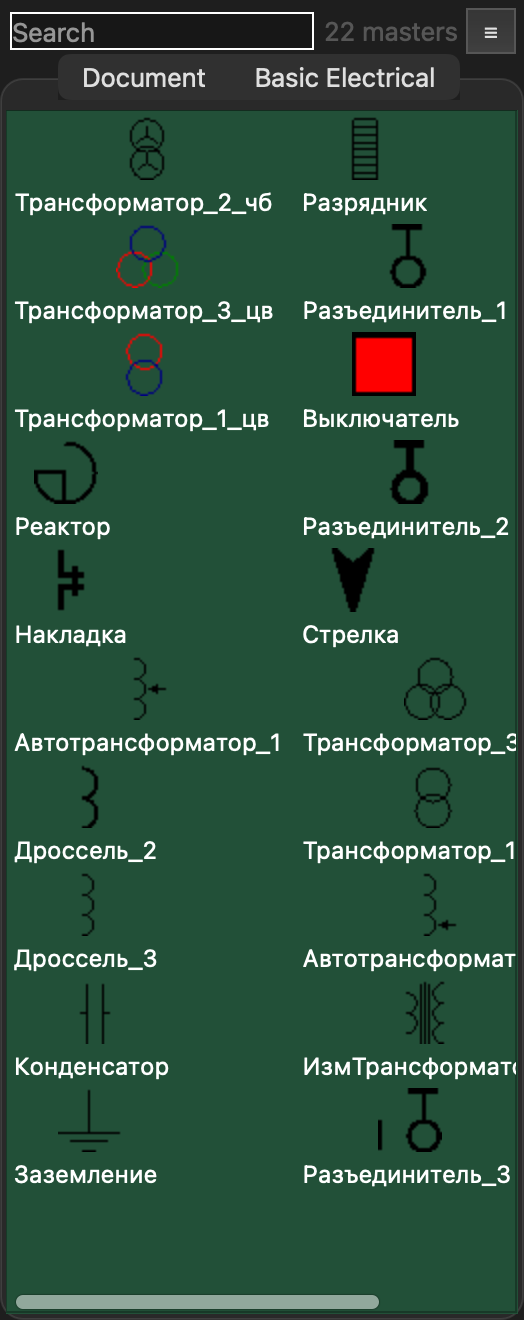
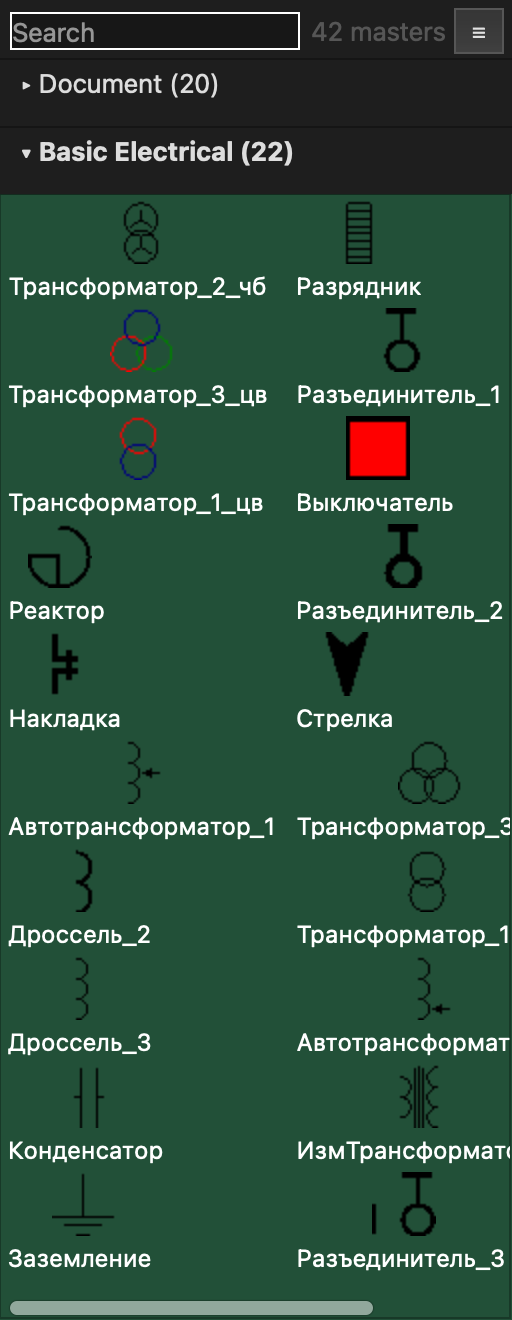
designer: stencil libraries as an accordion, not a second row of tabs
The Stencils panel put its libraries (Document, then every open .vdc) in
a tab widget inside the tabbed Stencils | Navigator dock: two rows of
tabs stacked, the inner one out of room after a few libraries, and the
search limited to the open tab.

The libraries are now a QToolBox: flat header rows, "▸ Document (20)",
"▾ Basic Electrical (22)", one open at a time, styled from the palette
so both themes follow. The search covers every library: headers show
their matches, the first library with a match opens if the open one has
none, and the counter beside the field counts all libraries. Drag and
drop, context menus, Ctrl-drop onto Document and list mode are as
before.

Tests: four new StencilPanel cases (accordion, header counts, search
opening the matching library, search keeping an open library that
matches); the existing ones moved from QTabWidget to QToolBox. One new
string, translated. The manual's Трафареты / Stencils pages, both
languages, the panel and window captures, the Designer gallery and the
editor-window reference sheet are updated; checked on the live app.

Changed region(s): [[0.0, 0.0, 1.0, 1.0], [0.0, 0.0, 0.0312, 0.0311]]

diff --git a/dev/designer/stencils.md b/dev/designer/stencils.md
@@ -21,20 +21,24 @@ permalink: /dev/designer/stencils/
 
 ![Панель «Трафареты»]({{ '/img/designer-stencils.png' | relative_url }}){: width="262"}
 
-Вкладка *Документ* показывает трафареты текущей схемы, остальные вкладки —
-открытые библиотеки. **Перетащите символ на схему**, чтобы поставить его.
+Библиотеки идут списком заголовков: сначала *Документ* — трафареты текущей
+схемы, — затем каждая открытая библиотека. В заголовке — число трафаретов;
+щелчок по заголовку раскрывает библиотеку (раскрыта всегда одна, она отмечена
+`▾`, свернутые — `▸`). **Перетащите символ на схему**, чтобы поставить его.
 
-- Поле *Поиск* оставляет символы, в имени которых есть набранный текст;
-  счетчик рядом показывает, например, `3 из 214`, чтобы пустой результат
-  поиска не путался с пустой библиотекой.
-- Кнопка `☰` переключает все вкладки со значков на список, где имена видны
+- Поле *Поиск* ищет сразу во всех библиотеках: в заголовках остается число
+  найденных, и если в раскрытой библиотеке ничего не нашлось, раскрывается
+  первая, где нашлось. Счетчик рядом с полем показывает, например,
+  `3 из 214` по всем библиотекам, чтобы пустой результат поиска не путался с
+  пустой библиотекой.
+- Кнопка `☰` переключает все библиотеки со значков на список, где имена видны
   целиком; выбор запоминается. Наведите указатель на символ, чтобы увидеть
   его полное имя.
 
 ## Библиотеки трафаретов {#libraries}
 
 - *Файл — Открыть трафарет...* (`Ctrl+Shift+O`) открывает библиотеку *vdc*
-  новой вкладкой.
+  и раскрывает ее.
 - *Файл — Открыть трафареты по умолчанию* (`F3`) открывает все библиотеки из
   папки, заданной в *Сервис — Параметры...* (*Папка трафаретов*).
 - При сохранении схемы в нее записывается список открытых библиотек; при
@@ -44,9 +48,9 @@ permalink: /dev/designer/stencils/
 
 - **Из выделения**: выделите фигуры и выберите
   *Фигура — Создать трафарет из выделения*; Дизайнер спросит имя, и новый
-  трафарет появится на вкладке *Документ*.
-- **Перетаскиванием**: перетащите выделенную фигуру с нажатым `Ctrl` на
-  вкладку *Документ* панели «Трафареты» — то же самое.
+  трафарет появится в библиотеке *Документ*.
+- **Перетаскиванием**: перетащите выделенную фигуру с нажатым `Ctrl` в
+  библиотеку *Документ* панели «Трафареты» — то же самое.
 - **Правка**: двойной щелчок по трафарету (или *Редактировать трафарет* в
   его контекстном меню) открывает его отдельной вкладкой. Правьте фигуры как
   обычную схему и закройте вкладку — изменения запишутся в трафарет, и все
@@ -100,6 +104,6 @@ permalink: /dev/designer/stencils/
    *Файл — Открыть трафарет...*.
 
 Чтобы изменить существующую библиотеку, откройте ее как трафарет и правьте
-трафареты прямо на ее вкладке, либо откройте файл *vdc* через
+трафареты прямо в ее разделе панели, либо откройте файл *vdc* через
 *Файл — Открыть...*, если нужно добавлять, переименовывать или удалять
 трафареты.

diff --git a/en/dev/designer/stencils.md b/en/dev/designer/stencils.md
@@ -21,20 +21,24 @@ libraries — *vdc* files.
 
 ![The Stencils panel]({{ '/img/designer-stencils-en.png' | relative_url }}){: width="262"}
 
-The *Document* tab shows the current schematic's masters, the other tabs the
-open libraries. **Drag a symbol onto the schematic** to place it.
+The libraries are a list of headers: *Document* first — the current
+schematic's masters — then every open library. Each header shows its number of
+masters; clicking a header opens that library (one is open at a time, marked
+`▾`; folded ones are marked `▸`). **Drag a symbol onto the schematic** to
+place it.
 
-- The *Search* field keeps the symbols whose name contains what you type; the
-  count beside it reads e.g. `3 of 214`, so an empty search result is not
-  mistaken for an empty library.
-- The `☰` button switches every tab from icons to a list that shows each name
+- The *Search* field searches every library at once: each header then shows
+  its matches, and if the open library has none, the first one that does
+  opens. The count beside the field reads e.g. `3 of 214` across all
+  libraries, so an empty search result is not mistaken for an empty library.
+- The `☰` button switches every library from icons to a list that shows each name
   in full; the choice is remembered. Hover over a symbol to see its full
   name.
 
 ## Stencil libraries {#libraries}
 
-- *File — Open Stencil...* (`Ctrl+Shift+O`) opens a *vdc* library as a new
-  tab.
+- *File — Open Stencil...* (`Ctrl+Shift+O`) opens a *vdc* library and
+  unfolds it.
 - *File — Open Default Stencils* (`F3`) opens every library in the folder set
   in *Tools — Options...* (*Stencils folder*).
 - Saving a schematic records the list of open libraries in it; they reopen
@@ -44,9 +48,9 @@ open libraries. **Drag a symbol onto the schematic** to place it.
 
 - **From the selection**: select shapes and choose
   *Shape — Create Master from Selection*; the Designer asks for a name, and
-  the new master appears on the *Document* tab.
-- **By dragging**: drag a selected shape with `Ctrl` held onto the *Document*
-  tab of the Stencils panel — the same thing.
+  the new master appears in the *Document* library.
+- **By dragging**: drag a selected shape with `Ctrl` held into the *Document*
+  library of the Stencils panel — the same thing.
 - **Editing**: double-click a master (or *Edit Master* in its context menu) to
   open it in a tab of its own. Edit the shapes as on any schematic and close
   the tab — the changes go into the master, and every instance on the
@@ -100,5 +104,5 @@ unchanged.
    *File — Open Stencil...*.
 
 To change an existing library, open it as a stencil and edit masters right
-on its tab, or open the *vdc* file with *File — Open...* if you need to add,
+in its section of the panel, or open the *vdc* file with *File — Open...* if you need to add,
 rename or delete masters.
